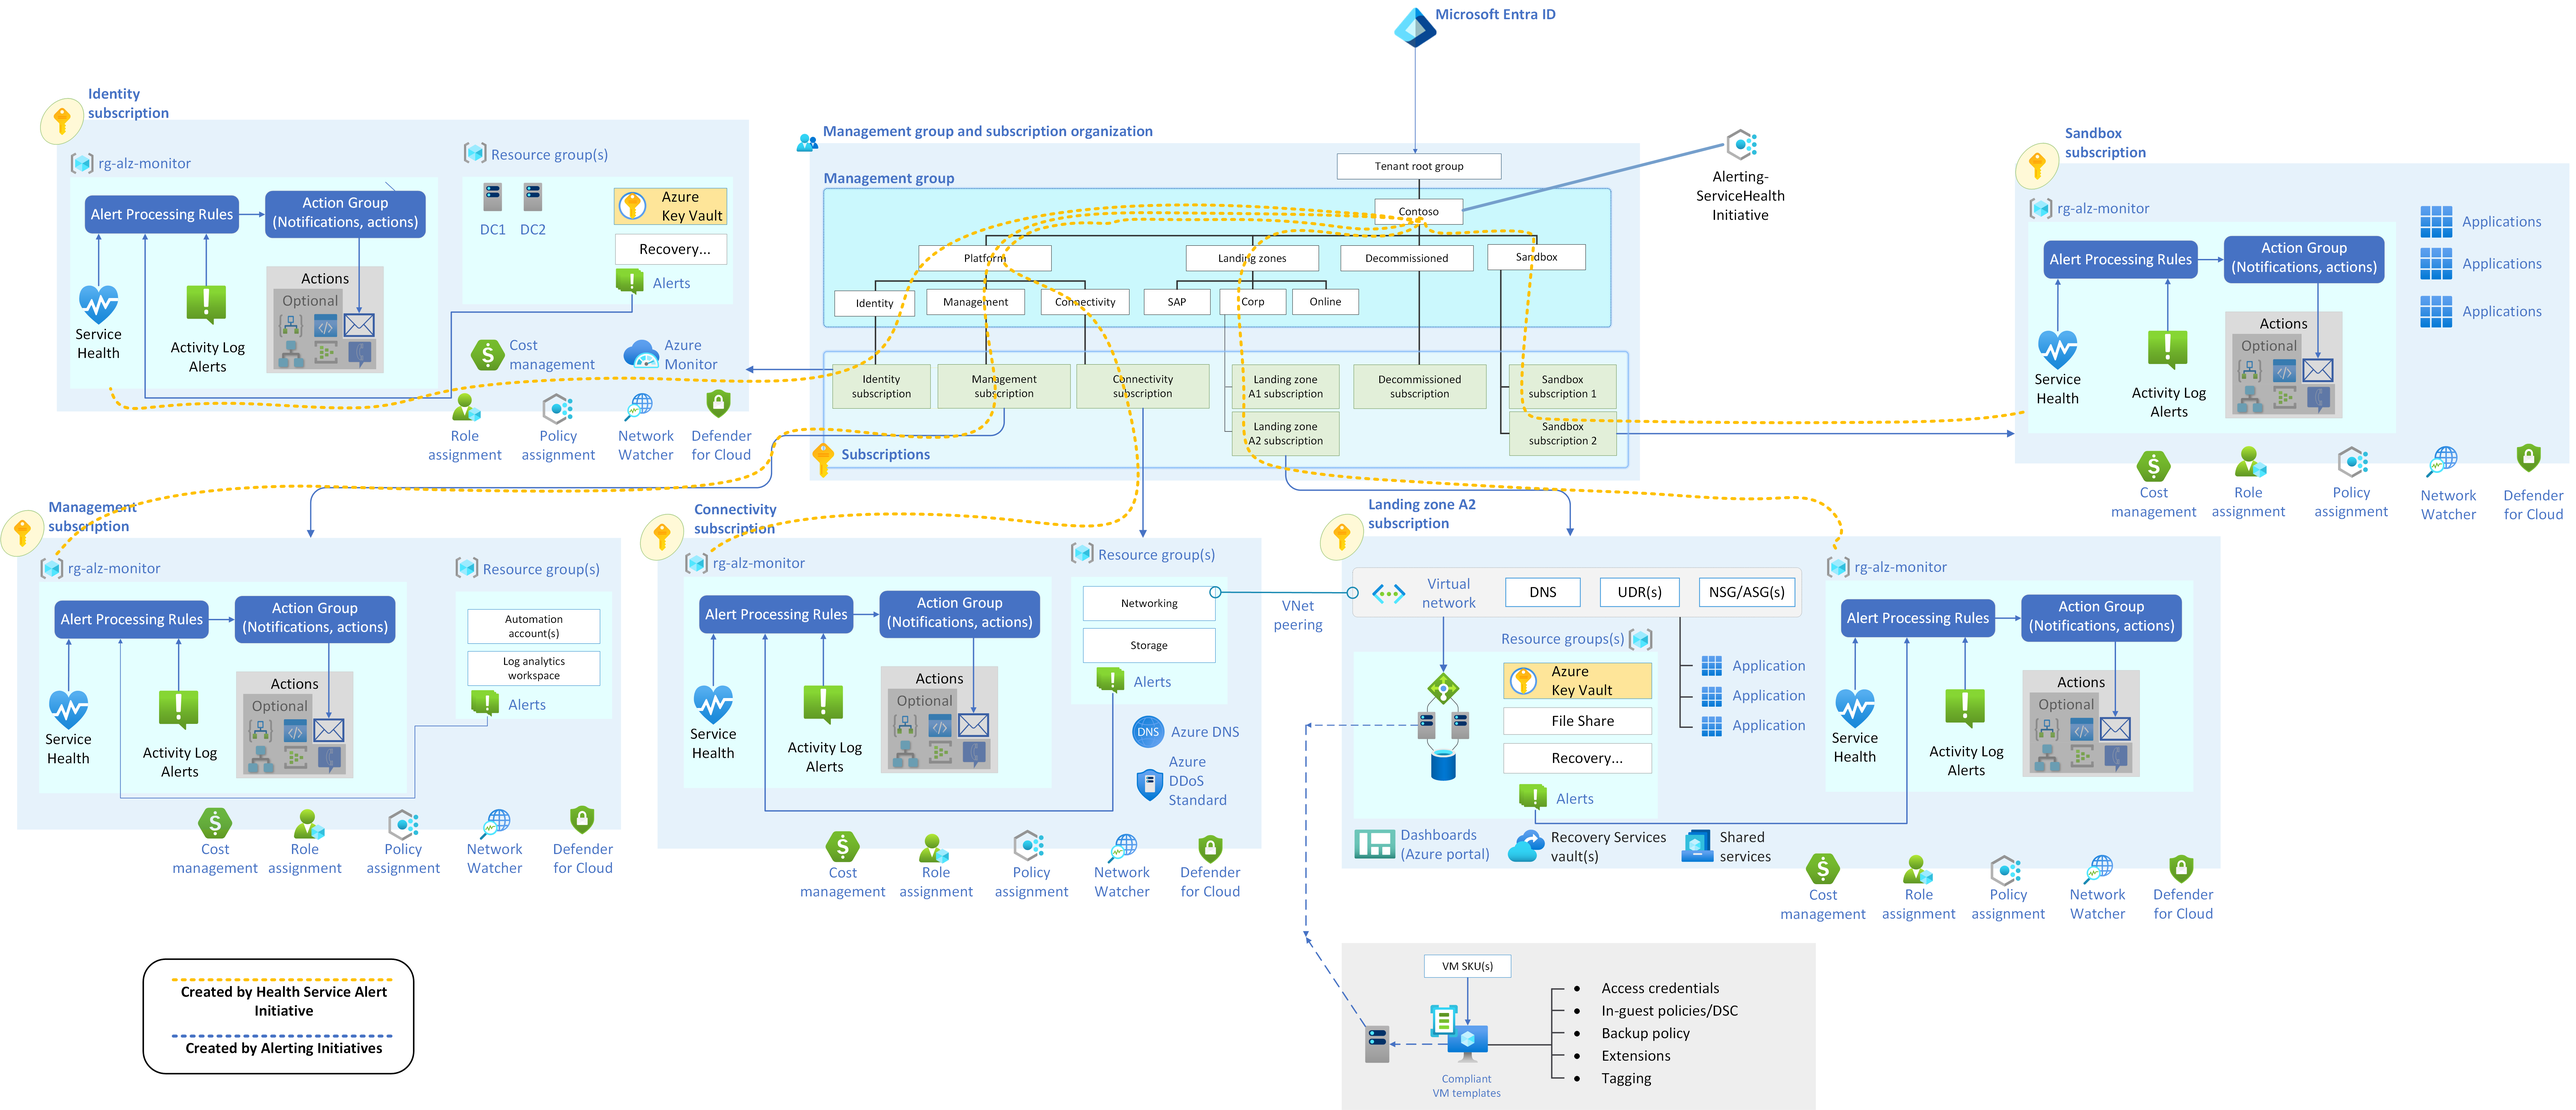
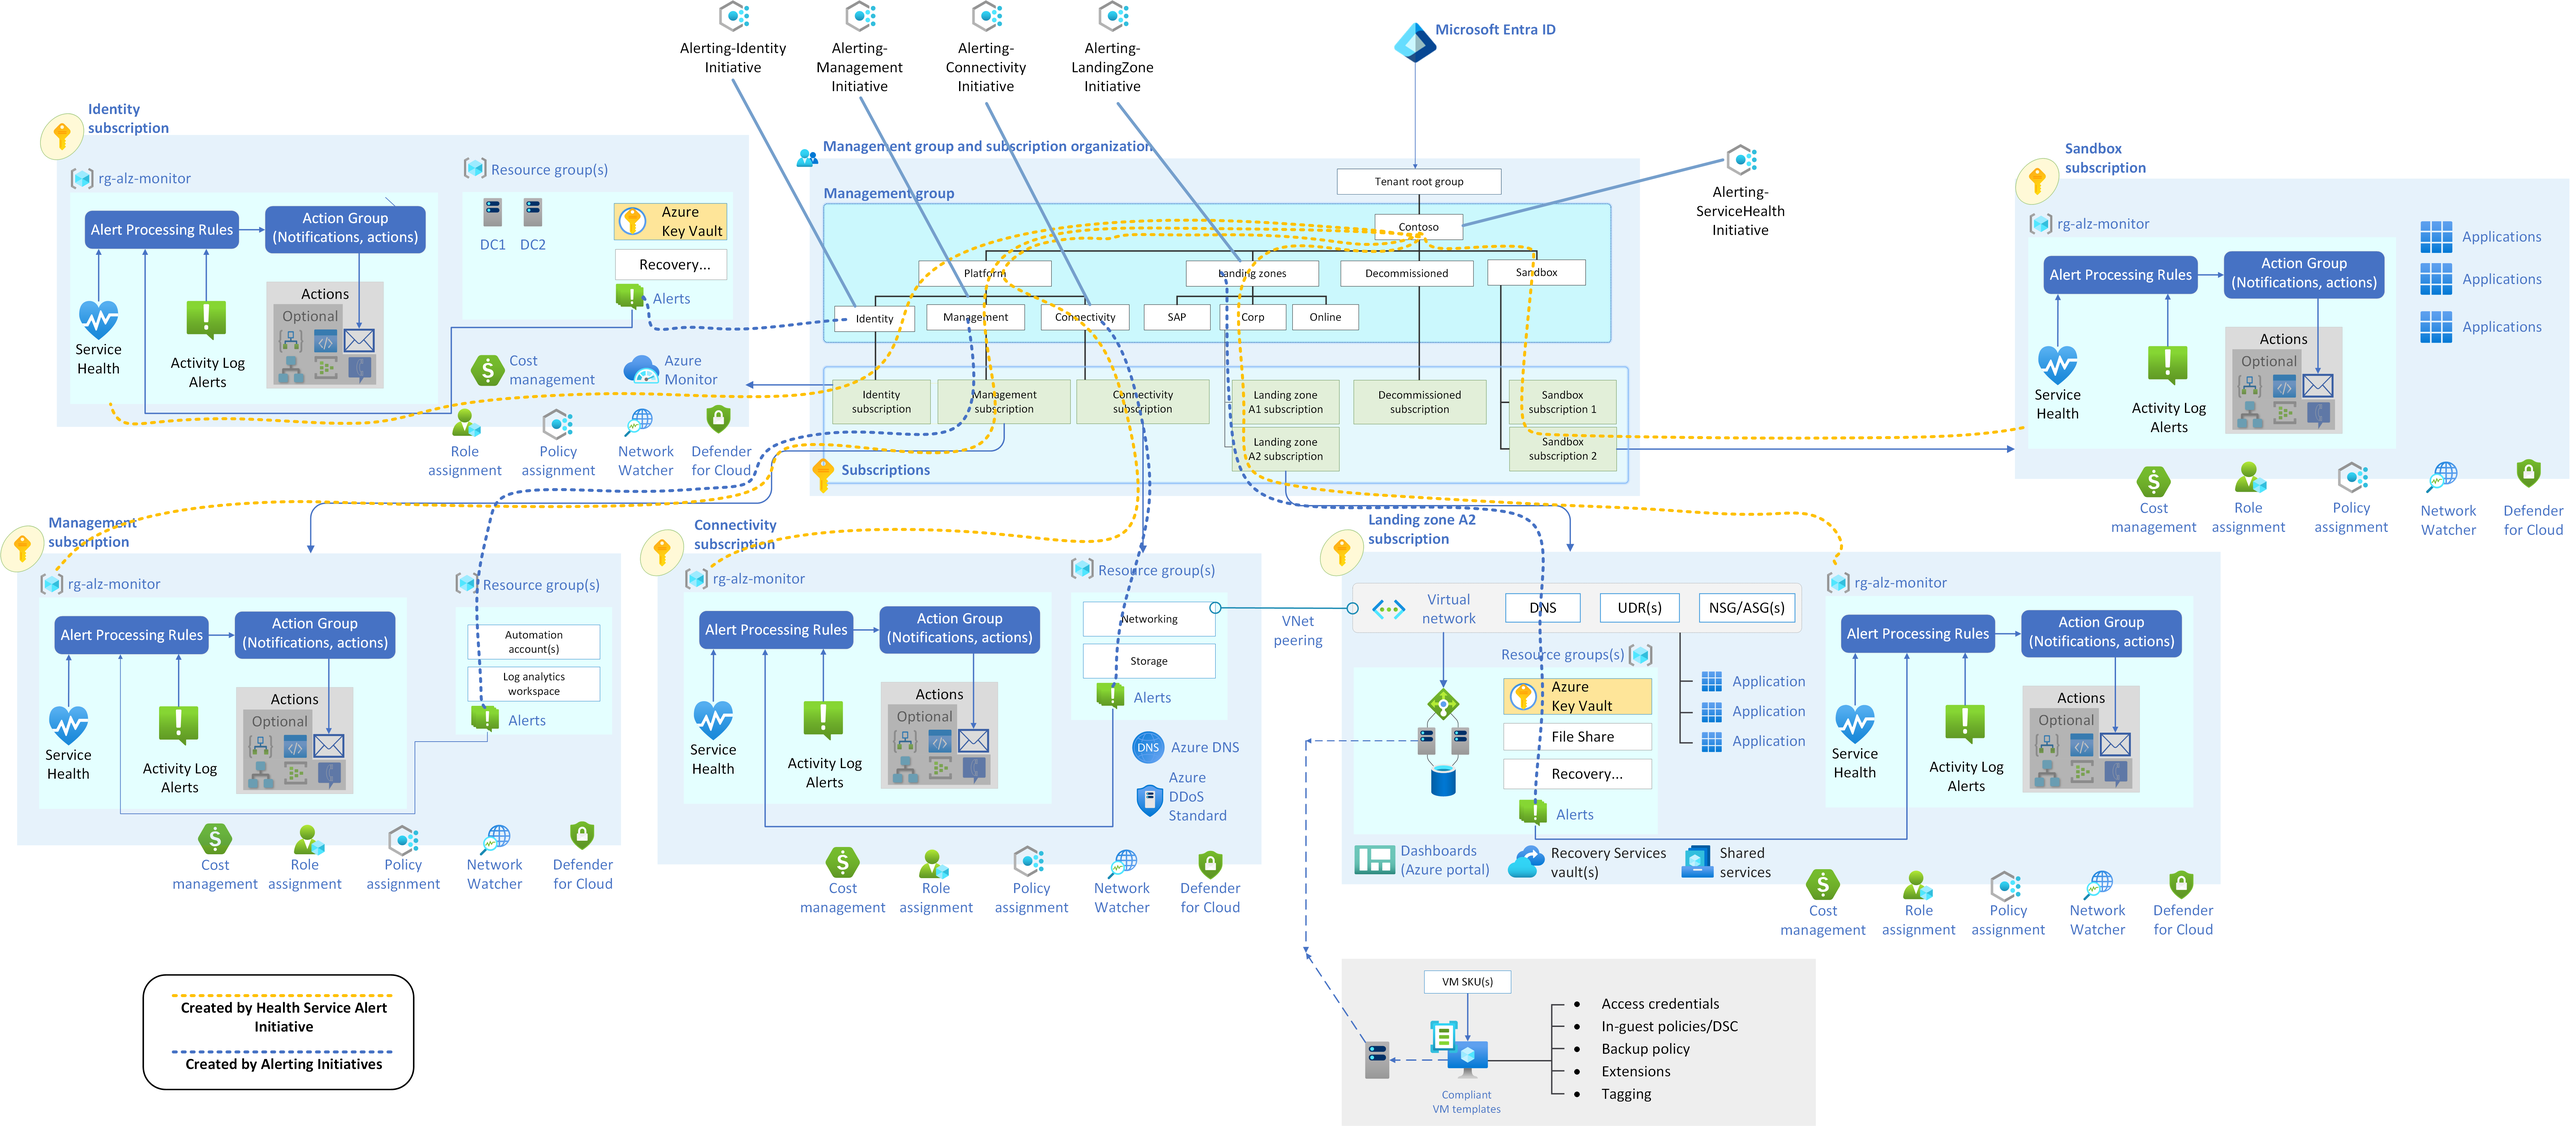
Update  amba-policy-initiative-flow.png image to contain all flows.

diff --git a/docs/wiki/Introduction-to-deploying-ALZ-Monitor.md b/docs/wiki/Introduction-to-deploying-ALZ-Monitor.md
@@ -64,7 +64,7 @@ The diagram below shows the flow using the orange dash-lines of the policy initi
 
 The other monitoring intitiatives are each assigned at specific platform landing zone management groups and workload landing zones. The flows for these are in blue dash-lines.
 
-<img src=" " width="50%">
+<img src="../../media/amba-policy-initiative-flow.png" width="50%" alt="Azure Monitor Baseline Alerts policy initiative flows">
 
 If you have this management group hierarchy, you can skip forward to your preferred deployment method:
 * [Deploy with GitHub Actions](./Deploy-with-GitHub-Actions)
